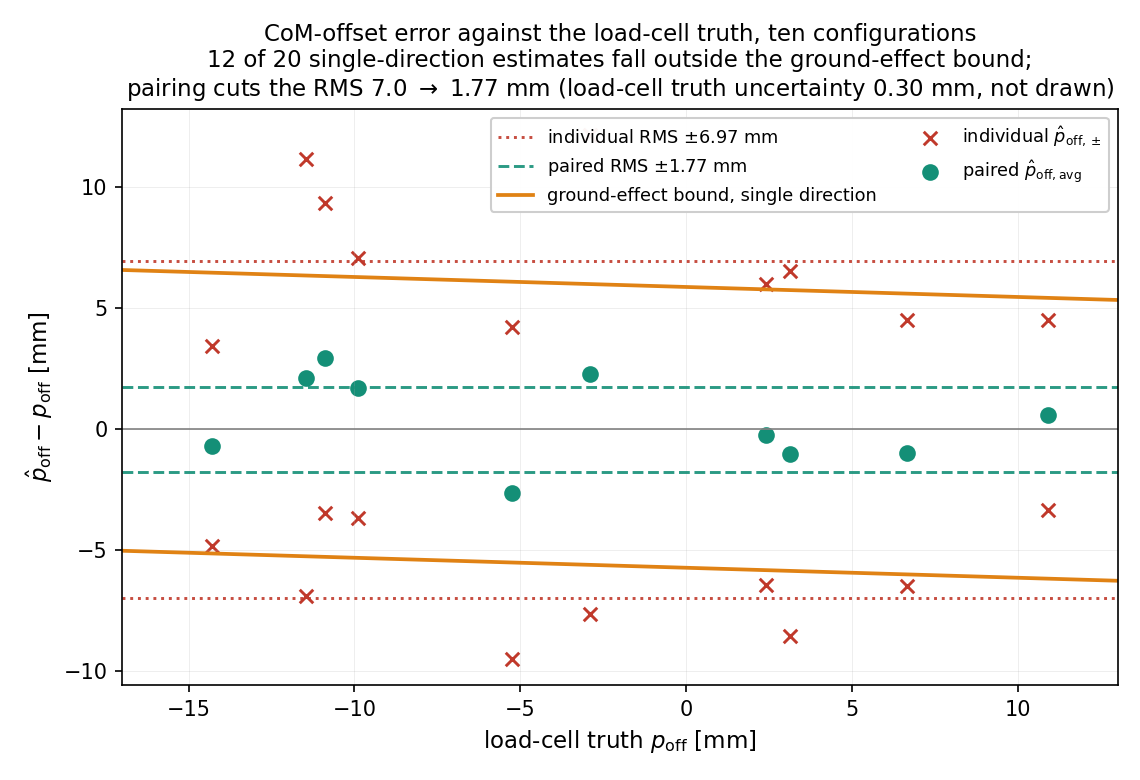
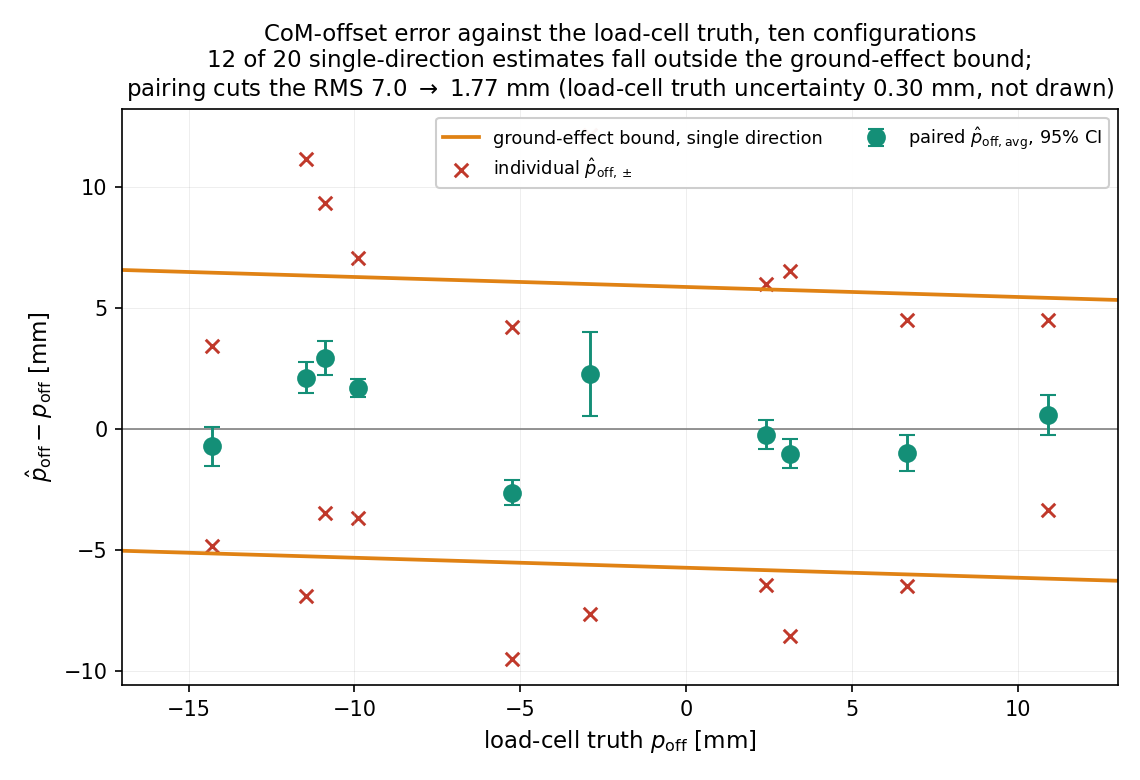
Paired points carry a 95% CI; drop the RMS lines
The CI is propagated per configuration from the run-to-run scatter of
the identified moments, u(p_s) = sd_s/(sqrt(n_s) W) combined over the
two directions and halved by the averaging, with a t factor on the
pooled dof.  It runs 0.37-1.73 mm, median 0.66 -- so most paired
estimates are statistically consistent with zero error, and the few
that are not are identifiable at a glance.

The individual/paired RMS lines are removed; the two numbers stay in
the title.

Claude-Session: https://claude.ai/code/session_01BM6bcsm1ZtLtgegEeuFDVS

diff --git a/analysis/offset_experimental_split.py b/analysis/offset_experimental_split.py
@@ -30,6 +30,7 @@ from pathlib import Path
 
 import numpy as np
 import scipy.io as sio
+from scipy.stats import t as student
 
 import matplotlib
 matplotlib.use('Agg')
@@ -96,13 +97,25 @@ def main():
         q['ta'].append(1e3 * (0.5 * (the['pos'] + the['neg']) - p))
         q['lab'].append(key[0][-2:])
         q.setdefault('sem', []).append(SEM.get(key, np.nan))
+        # 95% CI of the paired estimate, propagated from the run-to-run
+        # scatter of the identified moments in each direction:
+        #   u(p_s) = sd_s / (sqrt(n_s) W),  u(p_avg) = |u_+ , u_-| / 2
+        u2, dof = 0.0, 0
+        for dn in ('pos', 'neg'):
+            rr = grp[dn]
+            sd = float(rr['resid_run_std_mNm']) * 1e-3
+            n_r = int(rr['n_piv'].split('/')[0])
+            u2 += (sd / (np.sqrt(n_r) * W)) ** 2
+            dof += n_r - 1
+        q.setdefault('ci', []).append(
+            1e3 * 0.5 * np.sqrt(u2) * float(student.ppf(0.975, dof)))
         q.setdefault('geom', []).append(
             (W, sa, float(grp['pos']['f_onset']),
              float(grp['pos']['l_odom_mm']) * 1e-3,
              float(grp['neg']['f_onset']),
              float(grp['neg']['l_odom_mm']) * 1e-3))
     for q in D.values():
-        for k in 'tru ep en ea tp tn ta sem'.split():
+        for k in 'tru ep en ea tp tn ta sem ci'.split():
             q[k] = np.array(q[k])
 
     # pooled arrays
@@ -111,6 +124,7 @@ def main():
     EN = np.concatenate([D[a]['en'] for a in ('Mx', 'My')])
     EA = np.concatenate([D[a]['ea'] for a in ('Mx', 'My')])
     SE = np.concatenate([D[a]['sem'] for a in ('Mx', 'My')])
+    CI = np.concatenate([D[a]['ci'] for a in ('Mx', 'My')])
     IND = np.concatenate([EP, EN])
     rms = lambda v: float(np.sqrt(np.mean(v ** 2)))
 
@@ -132,22 +146,15 @@ def main():
 
     fig, ax = plt.subplots(figsize=(7.6, 5.2))
     ax.axhline(0, color='0.5', lw=0.8)
-    # RMS of each series drawn as +- lines, so the reduction is visual
-    for v, c, ls, nm in ((IND, '#c0392b', ':', 'individual'),
-                         (EA, C['a'], '--', 'paired')):
-        for sgn in (+1, -1):
-            ax.axhline(sgn * rms(v), color=c, ls=ls, lw=1.4,
-                       alpha=0.9,
-                       label=(f'{nm} RMS $\\pm${rms(v):.2f} mm'
-                              if sgn > 0 else None))
     ax.plot(1e3 * pg, up, '-', color='#e08214', lw=1.8,
             label='ground-effect bound, single direction')
     ax.plot(1e3 * pg, dn, '-', color='#e08214', lw=1.8)
     ax.scatter(np.concatenate([TRU, TRU]), IND, s=42, c='#c0392b',
                marker='x', lw=1.4,
                label='individual $\\hat{p}_{\\rm off,\\pm}$')
-    ax.scatter(TRU, EA, s=64, c=C['a'], marker='o', lw=0,
-               label='paired $\\hat{p}_{\\rm off,avg}$')
+    ax.errorbar(TRU, EA, yerr=CI, fmt='o', ms=8, color=C['a'],
+                ecolor=C['a'], elinewidth=1.4, capsize=4, lw=0,
+                label='paired $\\hat{p}_{\\rm off,avg}$, 95% CI')
     ax.set_xlabel('load-cell truth $p_{\\rm off}$ [mm]', fontsize=11)
     ax.set_ylabel('$\\hat{p}_{\\rm off} - p_{\\rm off}$ [mm]',
                   fontsize=11)
